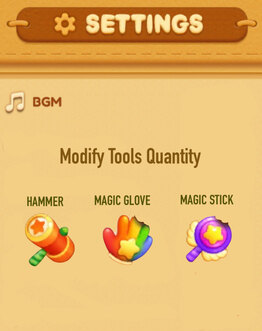
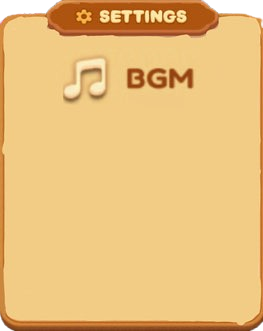
add bgm control

diff --git a/include/JumpPage.hpp b/include/JumpPage.hpp
@@ -28,7 +28,18 @@ class JumpPage : public Character {
 
         std::shared_ptr<Character> GetInfoButtom() {
             return m_info_Buttom;
-        }        
+        }
+        std::shared_ptr<Character> GetBGMButtom() {
+            return m_BGM_Buttom;
+        }
+
+        bool ifBGM() {
+            return BGM;
+        }
+
+        void SetBGM( bool f ) {
+            BGM = f;
+        }
 
         void AllDisappear() {
             m_Play_Buttom->SetVisible( false );
@@ -37,6 +48,7 @@ class JumpPage : public Character {
             m_Continue_Buttom->SetVisible( false );
             m_Stop_Buttom->SetVisible( false );
             m_info_Buttom->SetVisible( false );
+            m_BGM_Buttom->SetVisible( false );
             this->SetVisible( false );
         }
 
@@ -44,6 +56,8 @@ class JumpPage : public Character {
             m_Cancel_Buttom->SetVisible( true );
             this->SetImage( GA_RESOURCE_DIR"/Image/Background/setting.png" );
             this->SetVisible( true );
+            m_BGM_Buttom->SetVisible( true );
+            printf( "%d\n" , m_BGM_Buttom->GetVisibility() );
             SetStatus( JUMP_SETTING );
         }
 
@@ -113,6 +127,8 @@ class JumpPage : public Character {
         bool ifClickWithCancelButtomInEnd() { return m_Cancel_Buttom->GetVisibility() && m_Cancel_Buttom->IfClick() && ( GetStatus() == JUMP_END ); }
         
         bool ifClickWithInfoButtom() { return m_info_Buttom->GetVisibility() && m_info_Buttom->IfClick(); }
+
+        bool ifClickWithBGM() { return m_BGM_Buttom->GetVisibility() && m_BGM_Buttom->IfClick(); }
 private:
         int m_Status;
         std::string m_ImagePath;
@@ -122,6 +138,8 @@ private:
         std::shared_ptr<Character> m_Continue_Buttom;
         std::shared_ptr<Character> m_Stop_Buttom;
         std::shared_ptr<Character> m_info_Buttom;
+        std::shared_ptr<Character> m_BGM_Buttom;
+        bool BGM = true;
         inline std::string ImagePath(const std::string& phase) {
             return (GA_RESOURCE_DIR "/Image/Background/" + phase );
         }

diff --git a/src/App.cpp b/src/App.cpp
@@ -67,6 +67,7 @@ void App::Start() {
     m_Root.AddChild(m_Jump_Page->GetStopButtom());
     m_Root.AddChild(m_Jump_Page->GetContinueButtom());
     m_Root.AddChild(m_Jump_Page->GetInfoButtom());
+    m_Root.AddChild(m_Jump_Page->GetBGMButtom());
 
     m_Text_Point = std::make_shared<TaskText>();
     m_Text_Point->SetPosition({-125, 210});
@@ -131,12 +132,23 @@ void App::Update() {
                     m_Jump_Page->SettingPage();
                     m_Jump_Page->SetStatus( JUMP_SETTING );
                 }
-                else if ( get_stage != 0 ){
+                else if ( get_stage != 0 && m_Jump_Page->GetStatus() == JUMP_NORMAL ) {
                     m_stage_pos = get_stage;
                     m_Jump_Page->PlayPage( m_stage_pos );
                     m_Jump_Page->SetStatus( JUMP_PLAY );
-                } 
-                if ( m_Jump_Page->ifClickWithPlayButtom() ) {
+                }
+                if ( m_Jump_Page->GetStatus() == JUMP_SETTING && m_Jump_Page->ifClickWithBGM() ) {
+                    if ( m_Jump_Page->ifBGM() ) {
+                        m_Jump_Page->GetBGMButtom()->SetImage( OFF_IMAGE );
+                        m_BGM_Music.at(0)->SetVolume(0);
+                        m_Jump_Page->SetBGM(false);
+                    } else {
+                        m_Jump_Page->GetBGMButtom()->SetImage( ON_IMAGE );
+                        m_BGM_Music.at(0)->SetVolume(30);
+                        m_Jump_Page->SetBGM(true);
+                    }
+                }
+                else if ( m_Jump_Page->ifClickWithPlayButtom() && m_Jump_Page->GetStatus() == JUMP_NORMAL) {
                     SetUpStage( m_stage_pos );
                     if ( m_stage_pos >= 1 && m_stage_pos <= 12 ) { 
                         m_Stage_Object[m_stage_pos]->SetUp( m_stage_pos );

diff --git a/src/JumpPage.cpp b/src/JumpPage.cpp
@@ -35,6 +35,11 @@ JumpPage::JumpPage(const std::string& ImagePath)
             m_Stop_Buttom->SetZIndex( 14 );
             m_Stop_Buttom->SetVisible(false);
 
+            m_BGM_Buttom = std::make_shared<Character>( GA_RESOURCE_DIR"/Image/GameObject/on.png" );
+            m_BGM_Buttom->SetPosition( {0 , -30} );
+            m_BGM_Buttom->SetZIndex( 31 );
+            m_BGM_Buttom->SetVisible(false);
+
         }
 
 void JumpPage::SetImage(const std::string& ImagePath) {
